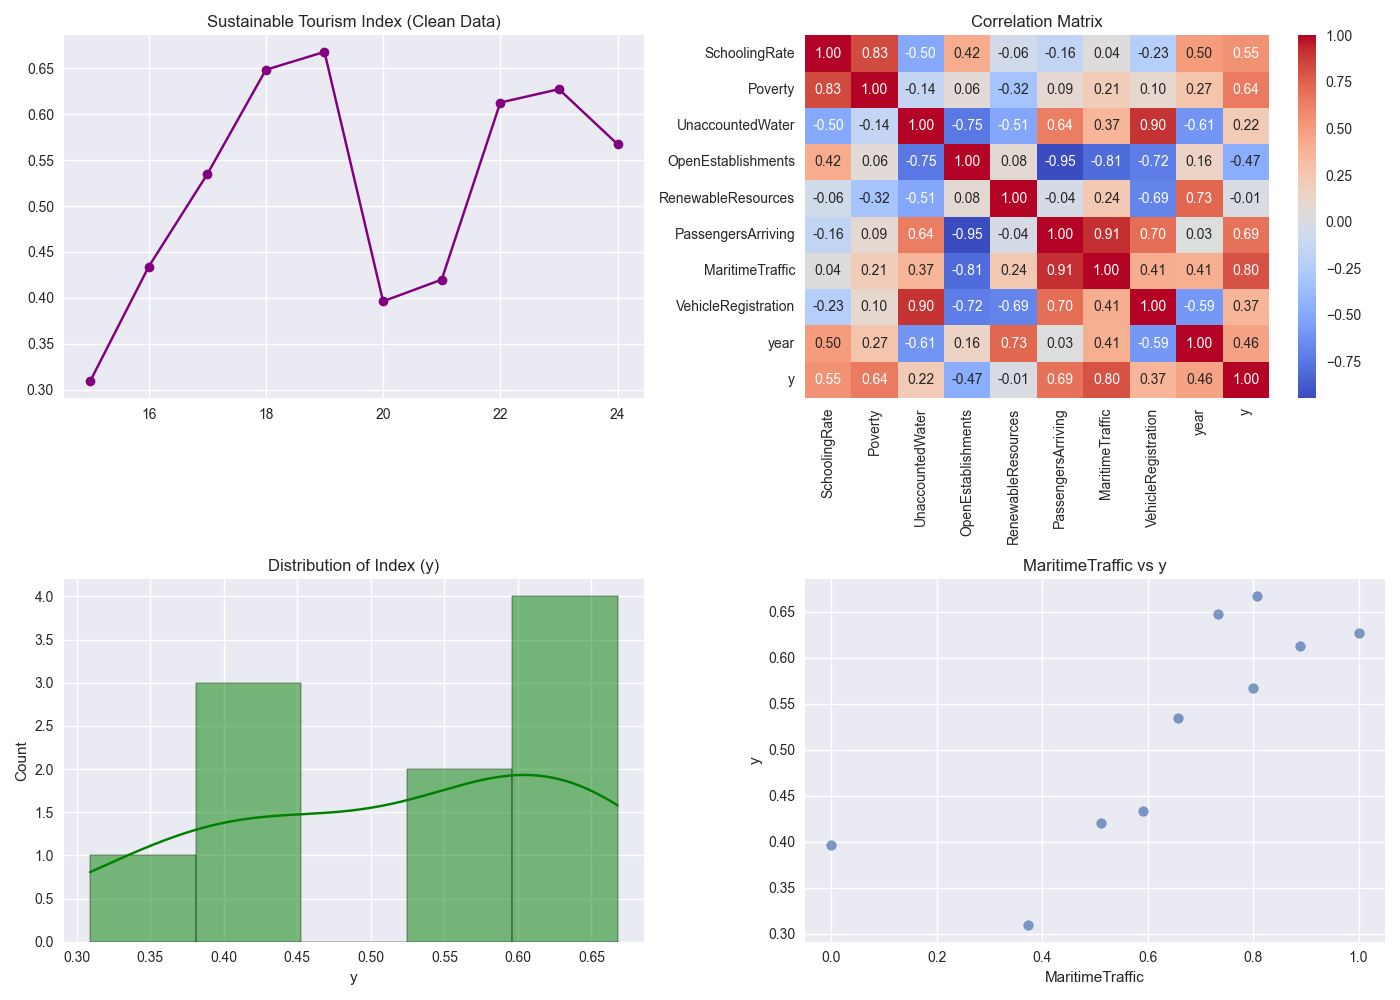
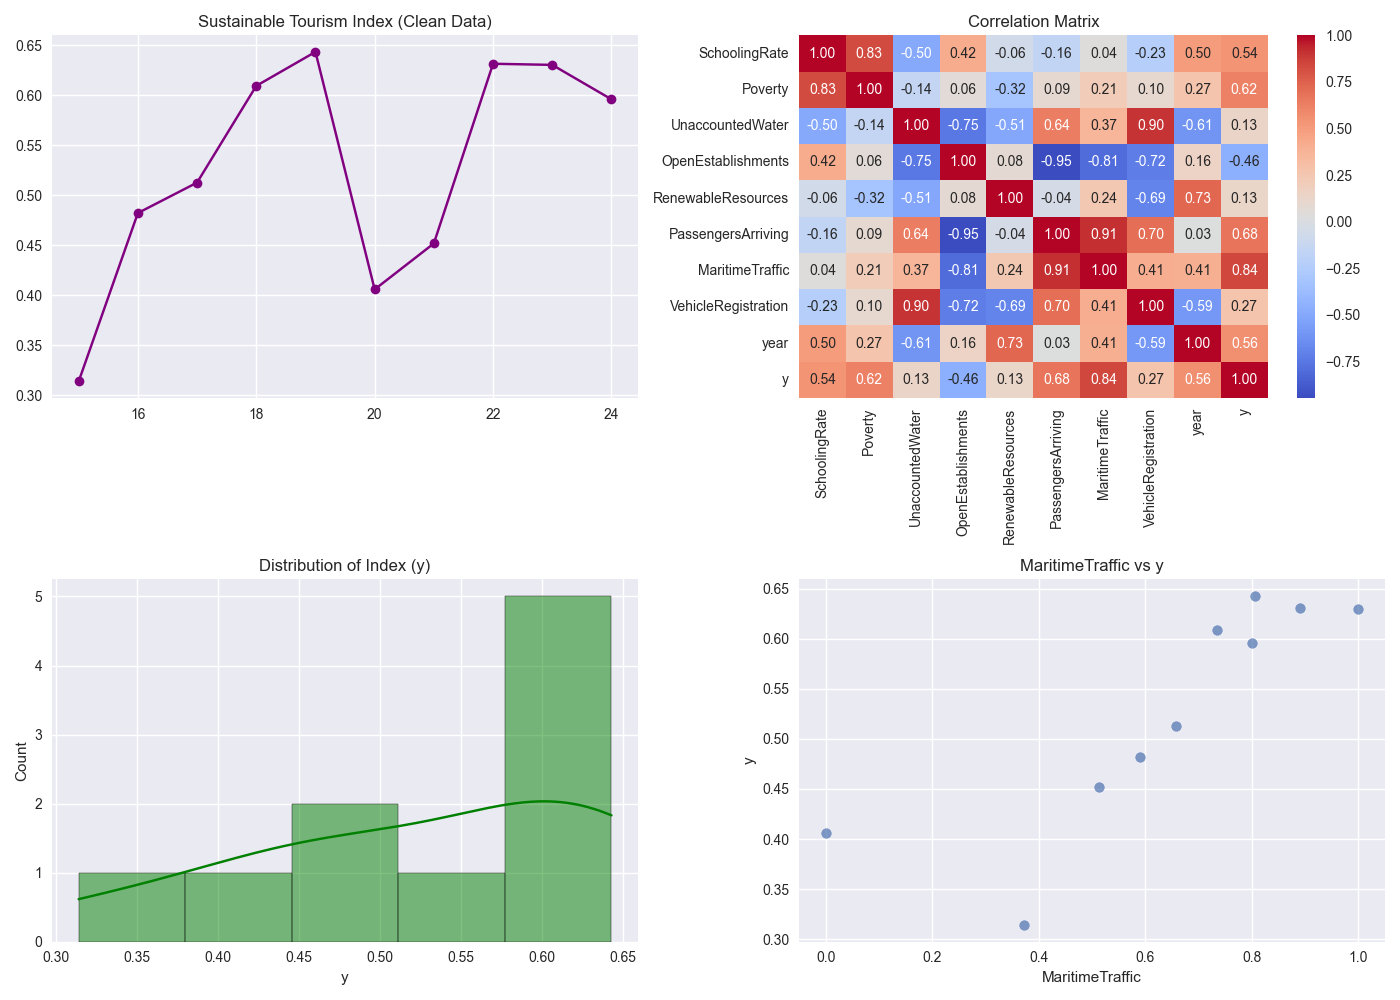
En este commit se ha hecho una corrección del código.

diff --git a/mallorca_analysis_V2.py b/mallorca_analysis_V2.py
@@ -61,37 +61,43 @@ print("\n--- Cleaning Strategy B: Dropping Rows with Missing Values ---")
 # Define Target Column Name
 target_col = 'SustainableTourismIndex'
 
-# Check if 'y' exists in the CSV
-if target_col not in df.columns:
-    print(f"Target column '{target_col}' not found. Checking feature completeness...")
-    rows_before = len(df)
+# 1. INITIAL CLEANING: Drop rows with missing values first
+# We do this first to ensure X and y are aligned
+df_clean = df.dropna()
+
+# 2. SEPARATE TARGET (y) AND FEATURES (X)
+# This logic is fixed to prevent 'y' from appearing inside 'X'
+
+if target_col in df_clean.columns:
+    # Case A: Target exists in CSV
+    y = df_clean[target_col]
+    # Drop the target from the dataframe to create X
+    X = df_clean.drop(columns=[target_col])
     
-    # Drop rows where any feature is missing
-    df_clean = df.dropna()
+    # SAFETY CHECK: If there is also a column named 'y' from a previous run, drop it too
+    if 'y' in X.columns:
+        X = X.drop(columns=['y'])
+        
+else:
+    # Case B: Target does not exist, we must calculate it
+    print(f"Target column '{target_col}' not found. Calculating index from features...")
     
-    # Calculate y for the clean rows
+    # Take all columns as features initially
     X = df_clean.copy()
-    # Normalize features to [0,1] for index calculation (standard index methodology)
-    # Note: This normalization is just for calculating y, we will re-normalize properly later
+    
+    # SAFETY CHECK: Drop 'y' if it exists from a previous run
+    if 'y' in X.columns:
+        X = X.drop(columns=['y'])
+
+    # Normalize features to [0,1] just for the index calculation
     X_norm_calc = (X - X.min()) / (X.max() - X.min())
     weights = [1/len(X.columns)] * len(X.columns)
     y = X_norm_calc.dot(weights)
-    df_clean['y'] = y
-    
-else:
-    # Standard Case: Target exists in CSV
-    rows_before = len(df)
-    
-    # 1. Drop rows where the Index (y) itself is missing
-    df_clean = df.dropna(subset=[target_col])
-    
-    # 2. Drop rows where any Explanatory Variable (X) is missing
-    df_clean = df_clean.dropna()
-    
-    y = df_clean[target_col]
-    X = df_clean.drop(columns=[target_col])
-    df_clean['y'] = y
 
+# 3. Finalize df_clean for display/plots
+df_clean['y'] = y
+
+rows_before = len(df)
 rows_after = len(df_clean)
 dropped_count = rows_before - rows_after
 
@@ -102,6 +108,14 @@ print(f"Remaining Years: {df_clean.index.tolist()}")
 # Print clean data sample (User Request)
 print("\n--- Clean Data (All Rows) ---")
 print(df_clean)
+
+# FINAL SAFETY CHECK
+# This guarantees X (Features) and y (Target) are distinct
+col_intersection = set(X.columns).intersection(set(['y', target_col]))
+if col_intersection:
+    print(f"\nCRITICAL WARNING: X still contains target columns: {col_intersection}")
+    X = X.drop(columns=list(col_intersection))
+    print("Fixed: Target columns removed from X.")
 
 if len(df_clean) < 5:
     print("\nWARNING: Dataset is very small (< 5 observations). Regression results might be overfitting.")
@@ -140,7 +154,7 @@ def exploratory_data_analysis(df):
     
     plt.tight_layout()
     plt.savefig('EDA_Plots_DropNA.png')
-    plt.show()
+    # plt.show() # Commented out to prevent blocking in some environments
 
 exploratory_data_analysis(df_clean.copy())
 
@@ -153,9 +167,10 @@ def compare_regression_methods(X_data, y_data):
     print("="*60)
     
     n_samples, n_features = X_data.shape
+    feature_names = X_data.columns.tolist()
     results_list = []
 
-    # --- 1. L2 Norm ---
+    # --- 1. L2 Norm (Least Squares) ---
     l2_model = LinearRegression()
     l2_model.fit(X_data, y_data)
     l2_pred = l2_model.predict(X_data)
@@ -168,7 +183,7 @@ def compare_regression_methods(X_data, y_data):
     
     results_list.append({"Model": "L2 (Least Squares)", "MAE": mae_l2, "RMSE": rmse_l2, "Max_Error": max_l2, "R2": r2_l2})
 
-    # --- 2. L1 Norm ---
+    # --- 2. L1 Norm (Least Absolute Deviations) ---
     prob_l1 = LpProblem("L1_Regression", LpMinimize)
     beta = [LpVariable(f"b_{j}", cat='Continuous') for j in range(n_features)]
     beta0 = LpVariable("b0", cat='Continuous')
@@ -177,6 +192,7 @@ def compare_regression_methods(X_data, y_data):
     prob_l1 += lpSum(u)
     
     for i in range(n_samples):
+        # Calculate predicted value using list comprehension
         y_hat = beta0 + lpSum([beta[j] * X_data.iloc[i,j] for j in range(n_features)])
         prob_l1 += y_data.iloc[i] - y_hat <= u[i]
         prob_l1 += y_hat - y_data.iloc[i] <= u[i]
@@ -187,7 +203,7 @@ def compare_regression_methods(X_data, y_data):
     mae_l1 = mean_absolute_error(y_data, l1_pred)
     results_list.append({"Model": "L1 (Least Abs Dev)", "MAE": mae_l1, "RMSE": np.sqrt(mean_squared_error(y_data, l1_pred)), "Max_Error": max_error(y_data, l1_pred), "R2": r2_score(y_data, l1_pred)})
 
-    # --- 3. L_inf Norm ---
+    # --- 3. L_inf Norm (Minimax) ---
     prob_inf = LpProblem("L_inf_Regression", LpMinimize)
     beta_inf = [LpVariable(f"bi_{j}", cat='Continuous') for j in range(n_features)]
     beta0_inf = LpVariable("bi0", cat='Continuous')
@@ -204,18 +220,36 @@ def compare_regression_methods(X_data, y_data):
     linf_pred = [value(beta0_inf) + sum(value(beta_inf[j]) * X_data.iloc[i,j] for j in range(n_features)) for i in range(n_samples)]
     results_list.append({"Model": "L_inf (Minimax)", "MAE": mean_absolute_error(y_data, linf_pred), "RMSE": np.sqrt(mean_squared_error(y_data, linf_pred)), "Max_Error": value(max_dev), "R2": r2_score(y_data, linf_pred)})
     
-    # Print
-    res_df = pd.DataFrame(results_list)
-    print(res_df.to_string(index=False))
+    # --- PRINT EQUATIONS (FIXED) ---
+    print("\n" + "-"*30)
+    print("MODEL EQUATIONS (Coefficients)")
+    print("-"*30)
     
-    # Plot
+    # L2 Equation
+    l2_coeffs = dict(zip(feature_names, l2_model.coef_))
+    print(f"\n[L2 OLS] y = {l2_model.intercept_:.4f} + " + " + ".join([f"{coef:.4f}*{name}" for name, coef in l2_coeffs.items()]))
+    
+    # L1 Equation
+    l1_coeffs = {name: value(beta[i]) for i, name in enumerate(feature_names)}
+    print(f"\n[L1 LAD] y = {value(beta0):.4f} + " + " + ".join([f"{coef:.4f}*{name}" for name, coef in l1_coeffs.items()]))
+    
+    # L_inf Equation
+    linf_coeffs = {name: value(beta_inf[i]) for i, name in enumerate(feature_names)}
+    print(f"\n[L_inf Minimax] y = {value(beta0_inf):.4f} + " + " + ".join([f"{coef:.4f}*{name}" for name, coef in linf_coeffs.items()]))
+    print("-" * 60)
+
+    # Print Metrics Table
+    res_df = pd.DataFrame(results_list)
+    print("\n" + res_df.to_string(index=False))
+    
+    # Plot Comparison
     plt.figure(figsize=(10, 6))
     plt.plot(y_data.index, y_data, 'ko-', label='Actual')
     plt.plot(y_data.index, l2_pred, 'g--', label='L2 Pred')
     plt.title("Regression Comparison (Dropped NA Strategy)")
     plt.legend()
     plt.savefig('Regression_Comparison_DropNA.png')
-    plt.show()
+    # plt.show()
 
 compare_regression_methods(X, y)
 
@@ -248,33 +282,45 @@ def solve_counterfactual_robust(target_increase_pct, max_vars=None, logical_cons
     
     prob = LpProblem("Counterfactual_Optimization", LpMinimize)
     
+    # Variables: beta (change) and delta (binary decision)
     beta = [LpVariable(f"beta_{i}", lowBound=0, upBound=1-x_current[i]) for i in range(p)]
     delta = [LpVariable(f"delta_{i}", cat='Binary') for i in range(p)]
     
+    # Objective: Minimize sum of changes + penalty for number of changes
     prob += lpSum(beta) + 0.001 * lpSum(delta)
     
+    # Constraint: Target Increase
     target_gain = y_current * target_increase_pct
     prob += lpSum([beta[i] * weights[i] for i in range(p)]) >= target_gain
     
     alpha = 0.5  
     M = 10       
     
+    # Constraints: Bounds and Linking
     for i in range(p):
         prob += beta[i] <= alpha * (std_devs[i] if std_devs[i] > 0 else 0.1)
         prob += beta[i] <= M * delta[i]
         prob += 0.001 * delta[i] <= beta[i]
     
+    # Cardinality Constraints
     if max_vars is not None:
         prob += lpSum(delta) <= max_vars
     else:
         prob += lpSum(delta) >= 1
     
+    # Logical Constraints (Q10)
     if logical_constraints:
         idx = {name: i for i, name in enumerate(feature_names)}
+        
+        # a) Maritime -> Passengers
         if 'MaritimeTraffic' in idx and 'PassengersArriving' in idx:
             prob += delta[idx['MaritimeTraffic']] <= delta[idx['PassengersArriving']]
+            
+        # b) XOR Schooling / Renewable
         if 'SchoolingRate' in idx and 'RenewableResources' in idx:
             prob += delta[idx['SchoolingRate']] + delta[idx['RenewableResources']] == 1
+            
+        # c) OR Poverty / Vehicle
         if 'Poverty' in idx and 'VehicleRegistration' in idx:
             prob += delta[idx['Poverty']] + delta[idx['VehicleRegistration']] >= 1
     
@@ -284,8 +330,7 @@ def solve_counterfactual_robust(target_increase_pct, max_vars=None, logical_cons
     
     if prob.status == LpStatusOptimal:
         beta_values = [beta[i].varValue for i in range(p)]
-        new_values = [x_current[i] + beta_values[i] for i in range(p)]
-        new_y = np.dot(new_values, weights)
+        new_y = y_current + np.dot(beta_values, weights) 
         improvement = (new_y - y_current) / y_current
         
         print("Recommended Changes:")
